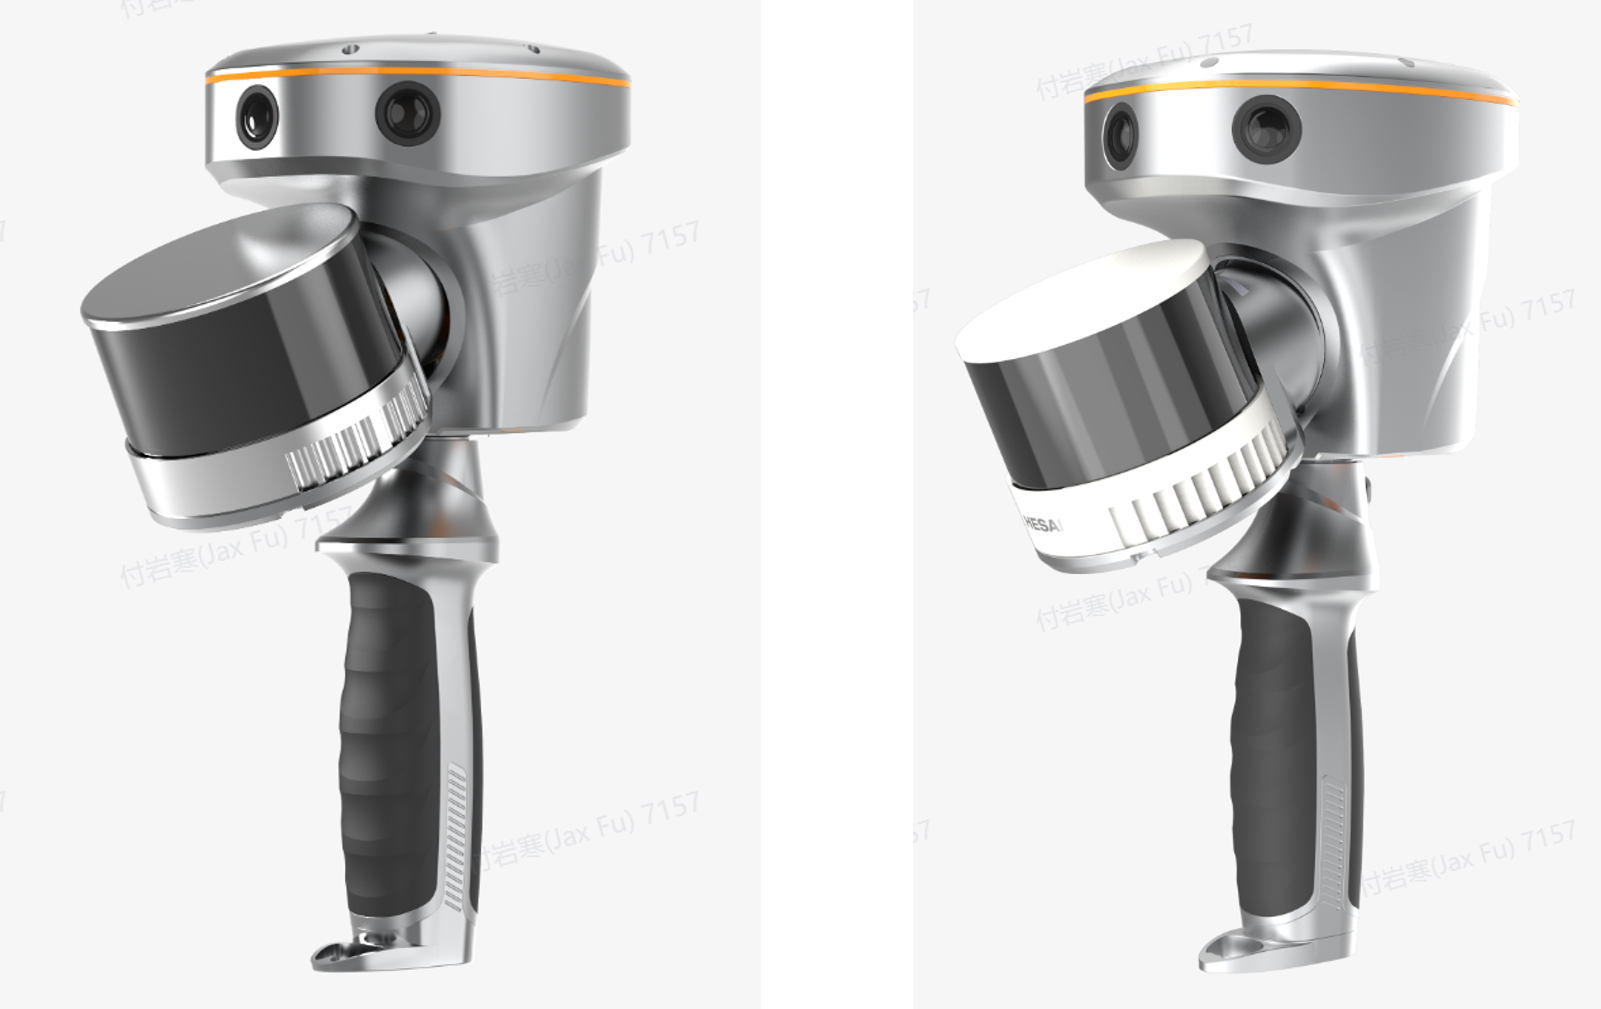
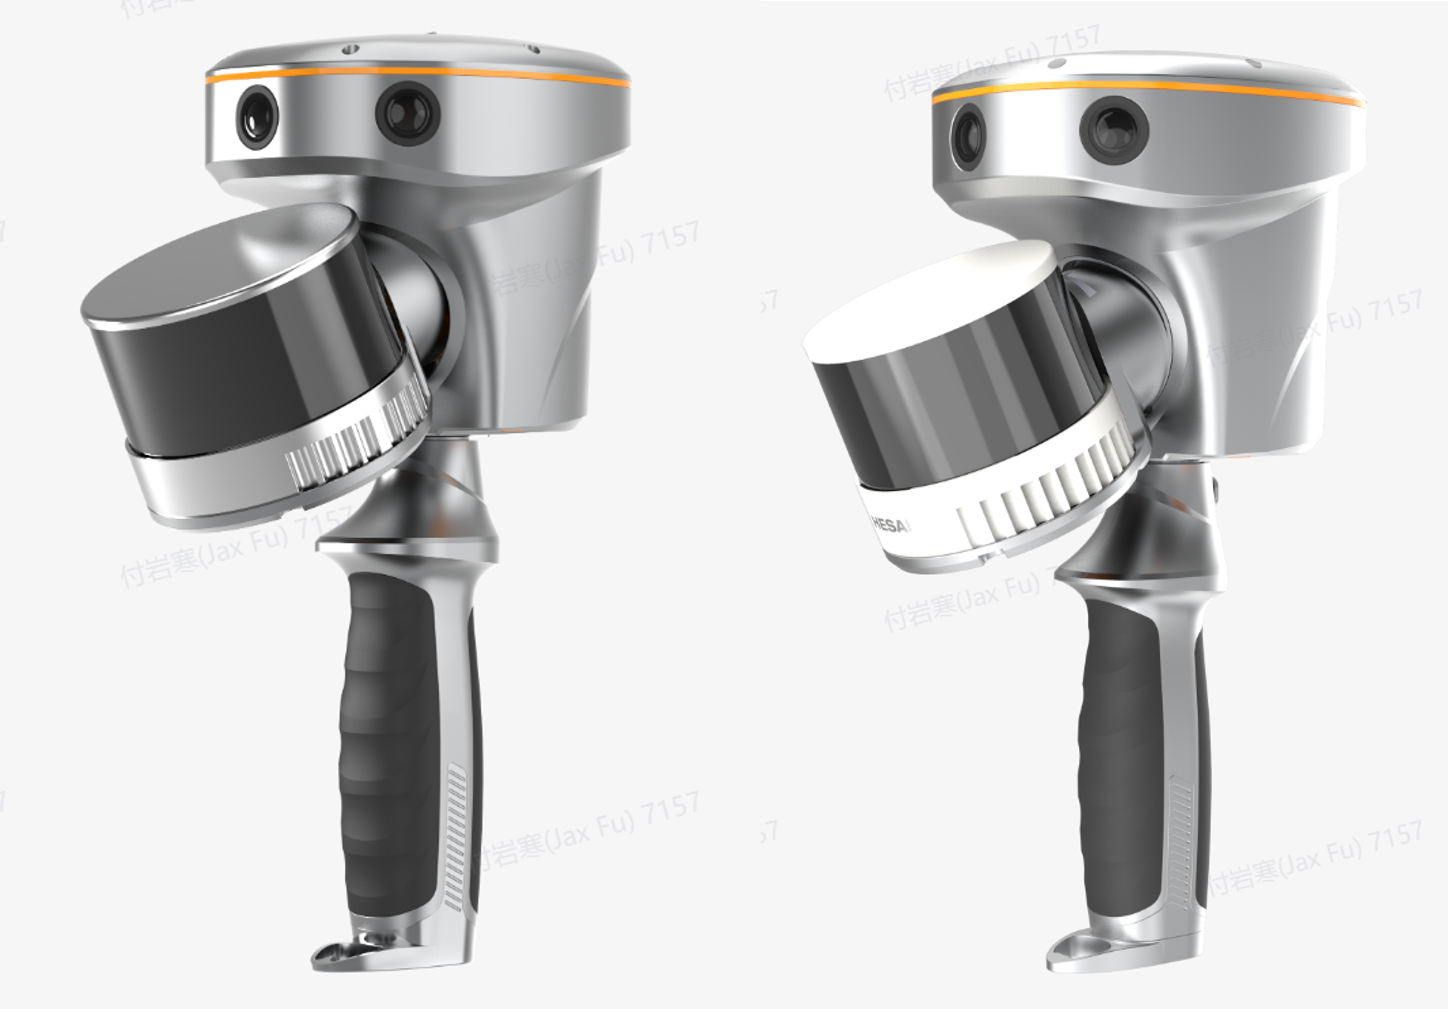
Deployed 4ff665d with MkDocs version: 1.6.1

Changed region(s): [[0.0311, 0.0307, 0.4351, 0.9832], [0.5594, 0.0307, 0.9634, 0.9832], [0.0622, 0.2458, 0.0932, 0.2765]]

diff --git a/support/equipment/3d_mobile_mapping/handheld/RS10/index.html b/support/equipment/3d_mobile_mapping/handheld/RS10/index.html
@@ -1365,8 +1365,7 @@
   <!-- Header: Image + Title -->
   <div class="rs10-header">
     <div>
-      <img src="/Product-and-Technical-Team/assets/img/RS10_16.png" alt="RS10 16L">
-      <img src="/Product-and-Technical-Team/assets/img/RS10_32.png" alt="RS10 32L">
+      <img src="/Product-and-Technical-Team/assets/img/RS10_all.png" alt="RS10 all">
     </div>
     <div class="rs10-title">
       <h3>CHCNAV RS10</h3>
@@ -1404,7 +1403,7 @@
       <ul>
         <li>Battery duration: ~1 hour</li>
         <li>Operating Temp: –20°C to +50°C</li>
-        <li>Weight + battery: RS10 (16) &lt; 1.9kg,<br>RS10 (32) &lt; 1.7kg</li>
+        <li>Weight + battery: RS10 (16) &lt; 1.9kg,RS10 (32) &lt; 1.7kg</li>
       </ul>
     </div>
   </div>
